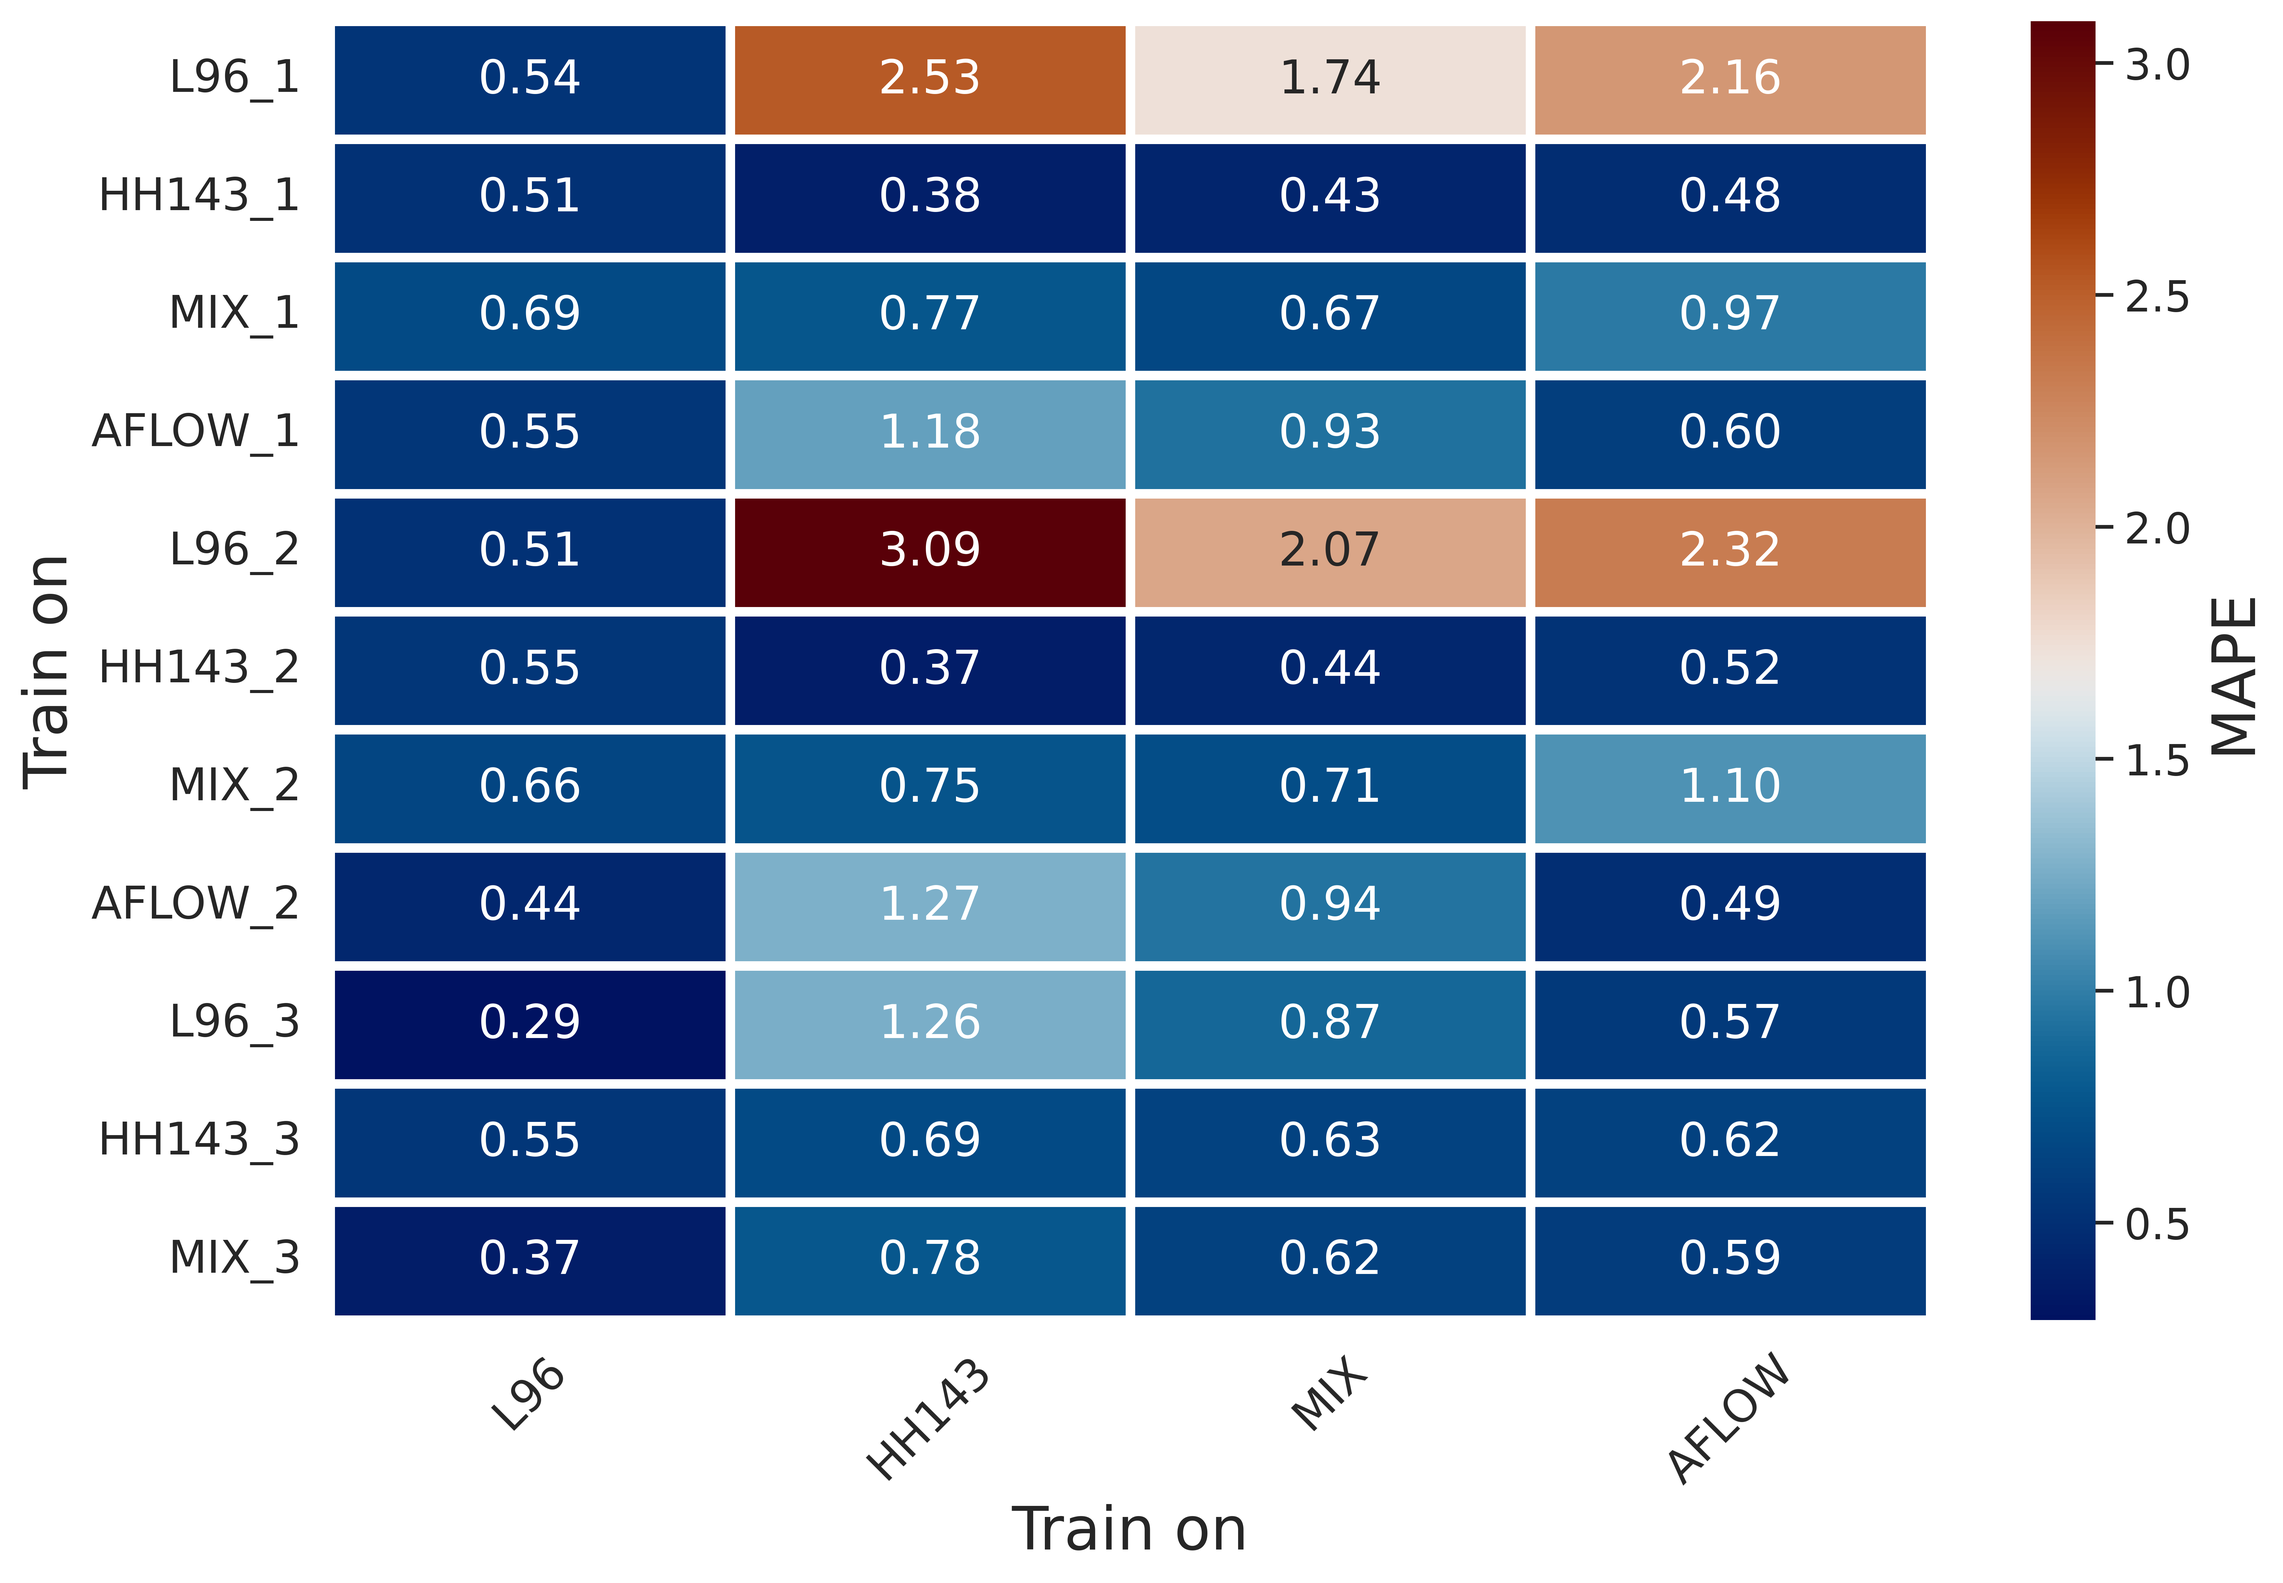
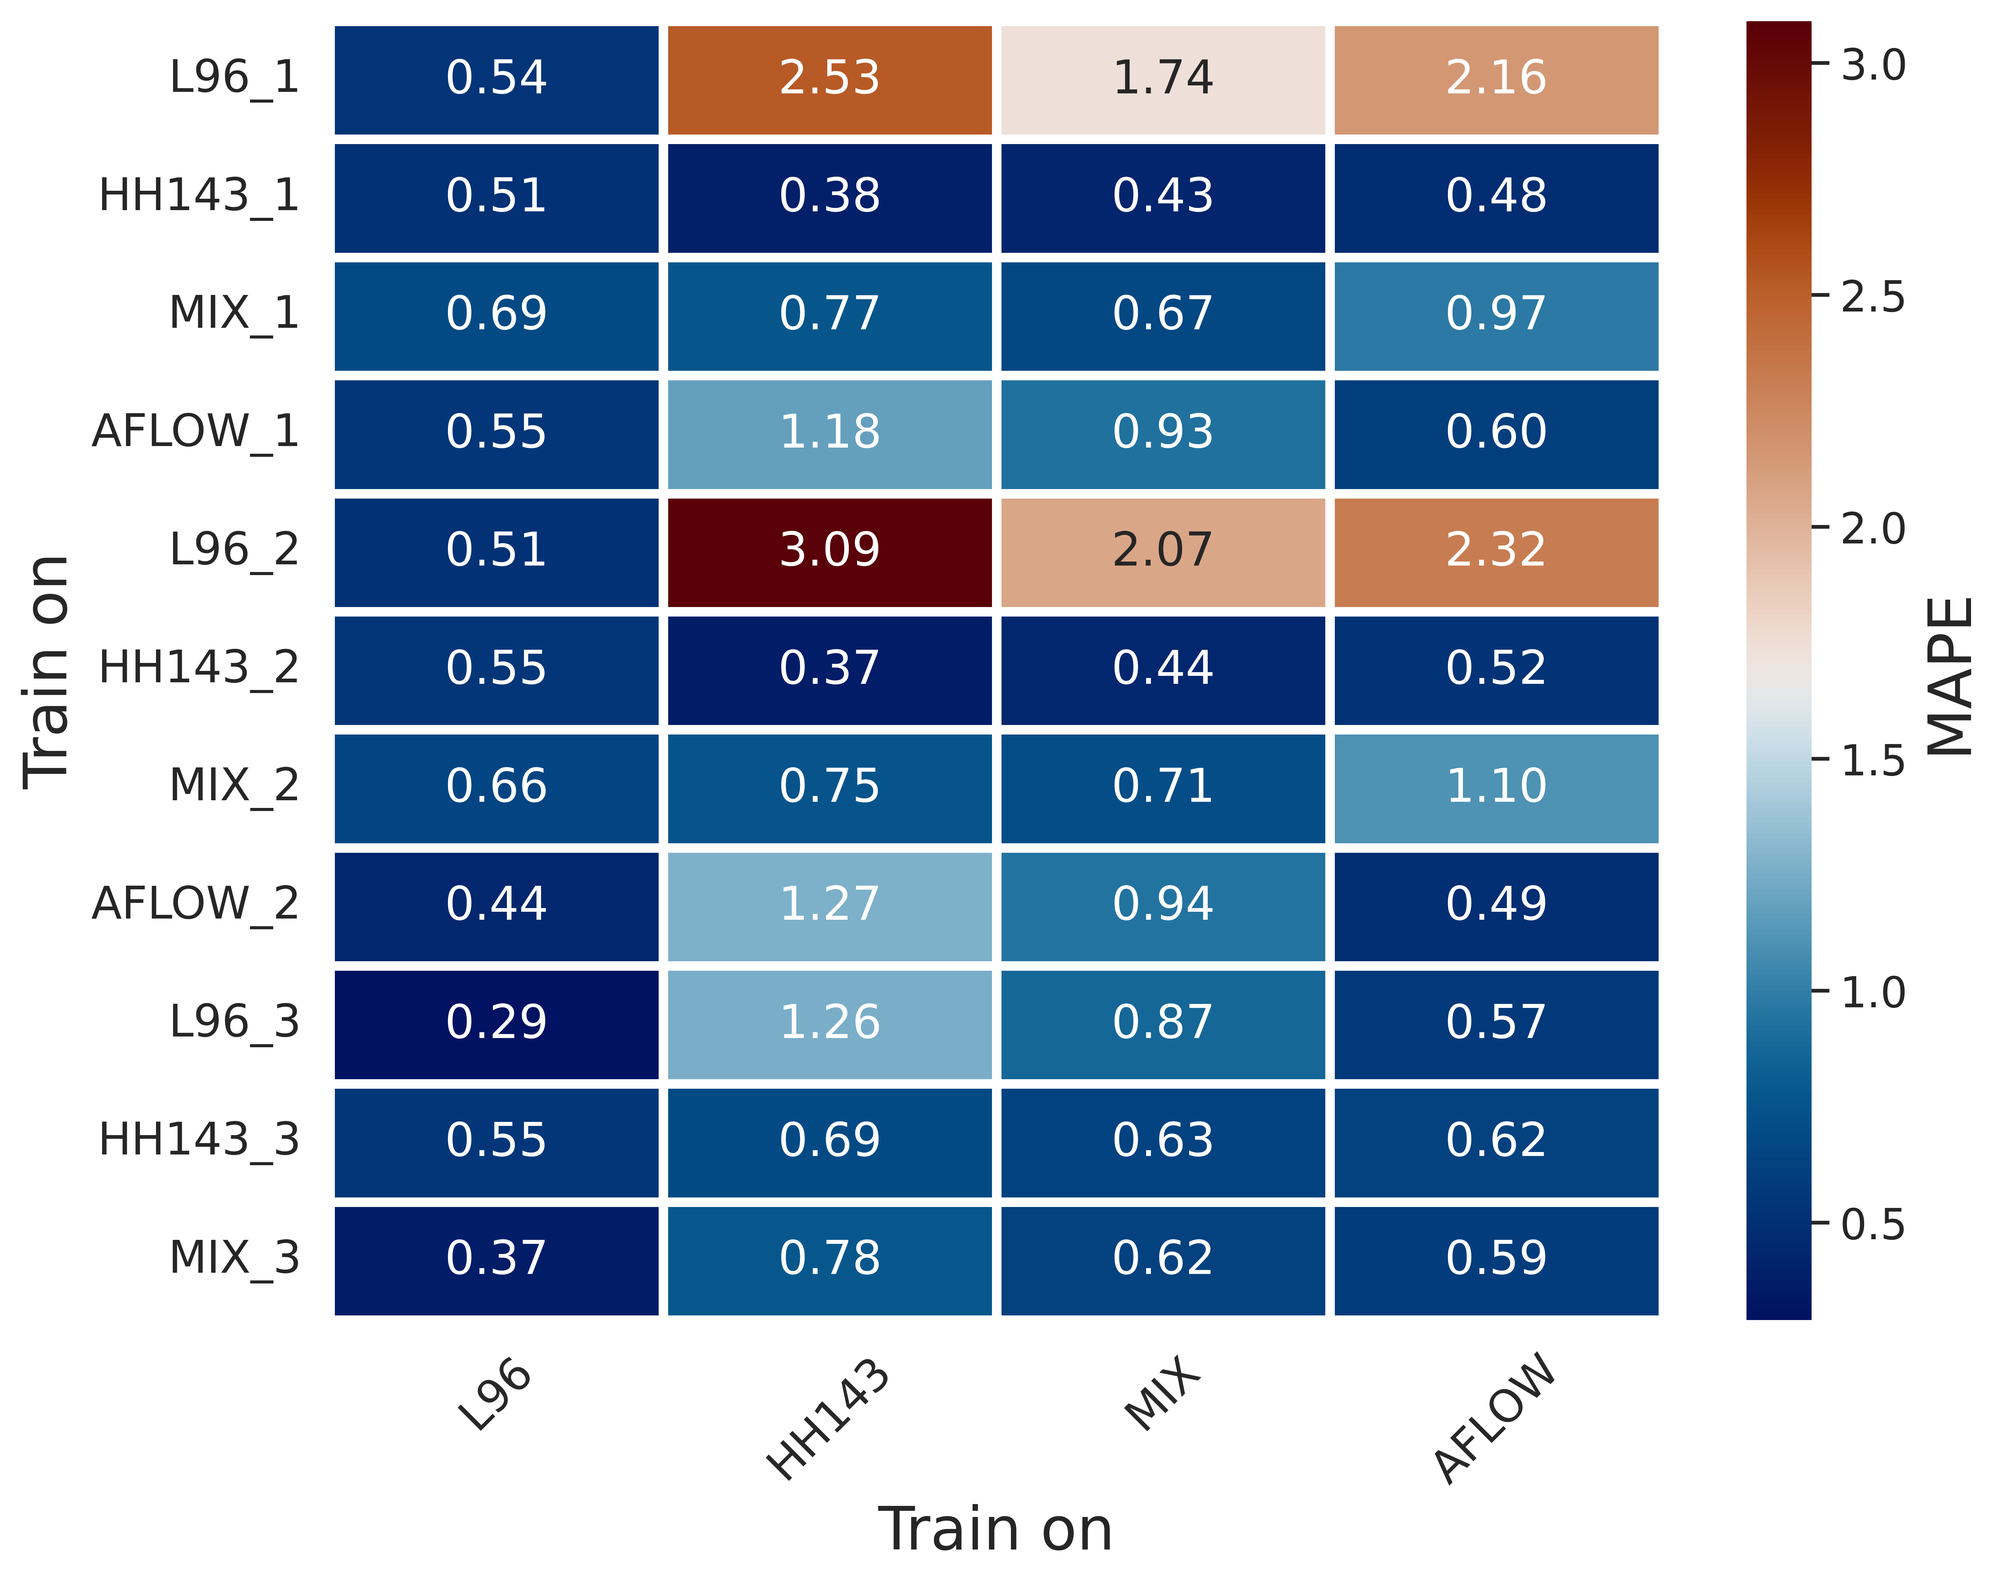
final

diff --git a/megnet_p31/pytorch/matgl-main/src/make_histograms.py b/megnet_p31/pytorch/matgl-main/src/make_histograms.py
@@ -32,7 +32,7 @@ data = {
 df = pd.DataFrame(data, index=['L96', 'HH143', 'MIX', 'AFLOW'])
 
 # Create the heatmap
-plt.figure(figsize=(12, 8), dpi=700)
+plt.figure(figsize=(10, 8), dpi=700)
 ax = sns.heatmap(df.T, annot=True, cmap=cm.vik, fmt='.2f', linewidths=3,cbar_kws={'shrink': 1})
 ax.collections[0].colorbar.set_label("MAPE",fontsize=20)
 plt.ylabel('Train on', fontsize=20)
